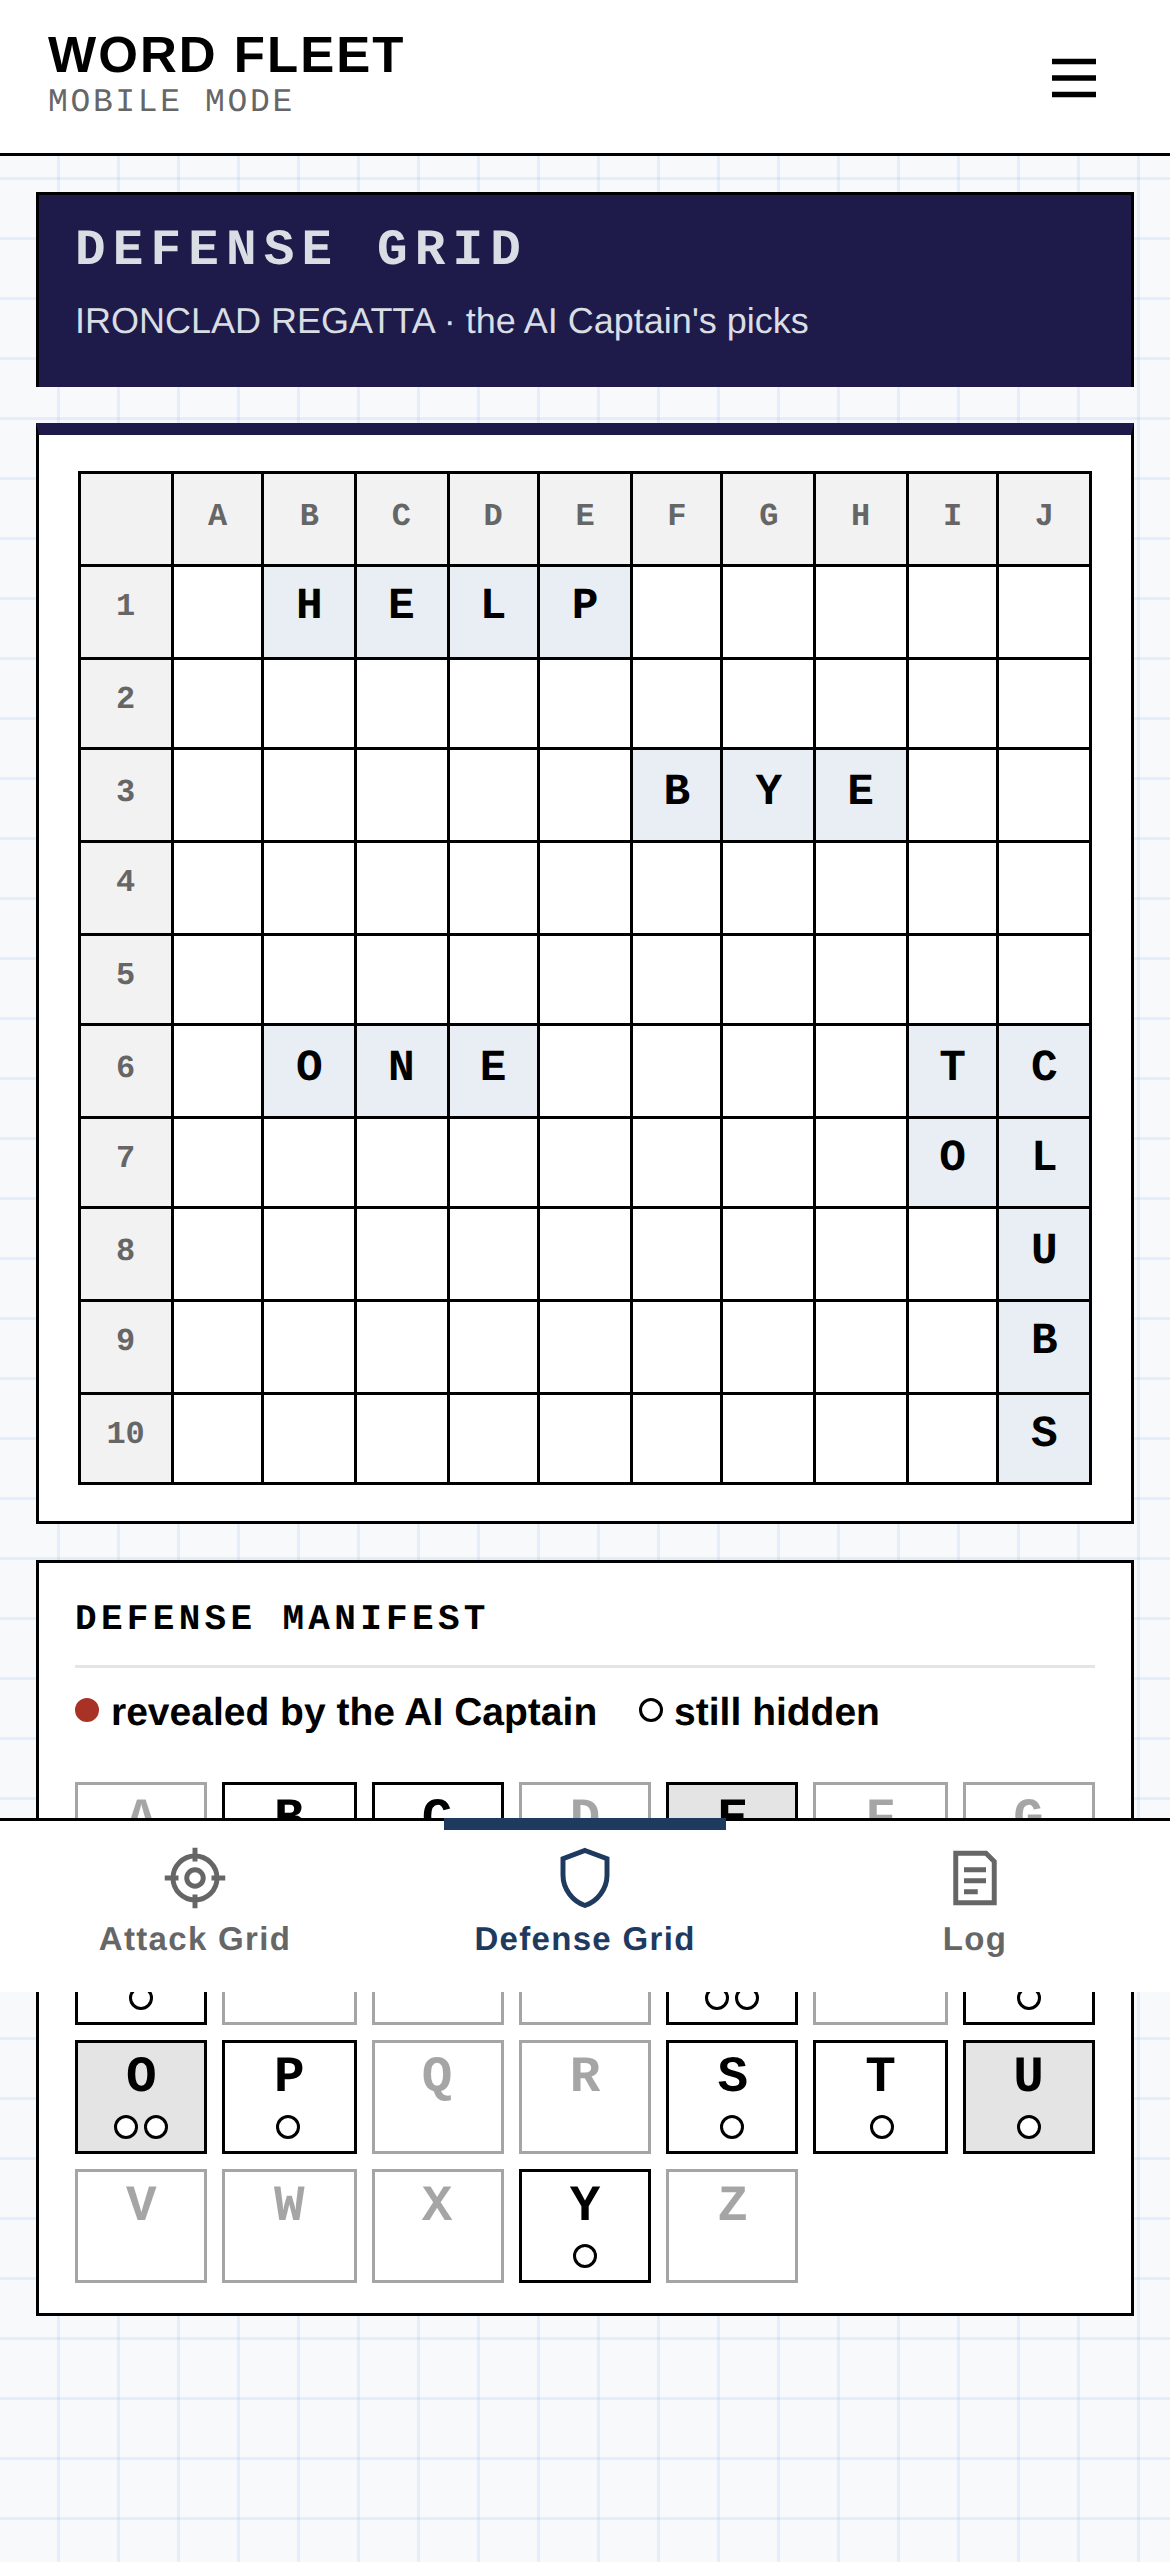
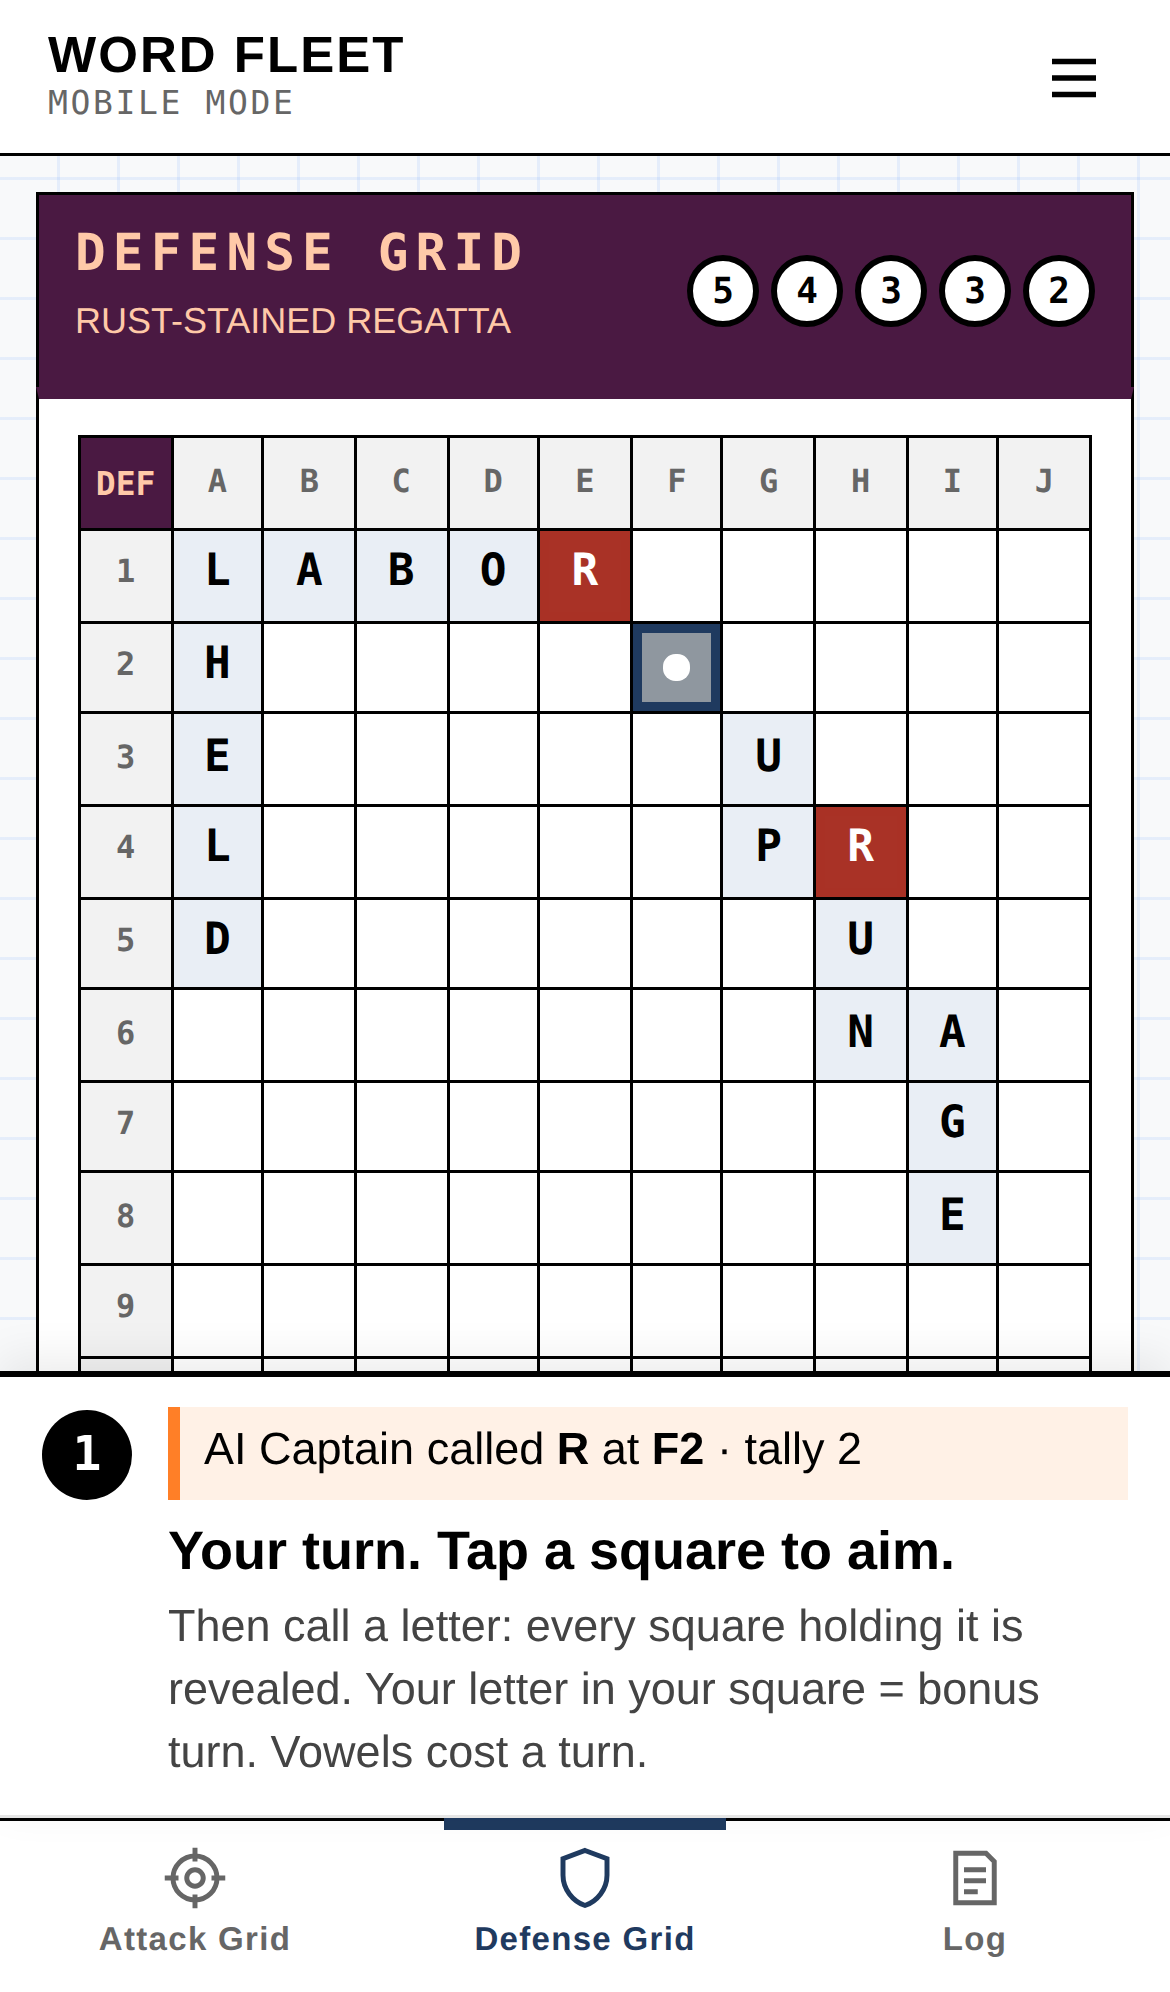
Defense Grid built like the Attack Grid in your colors: no incoming-fire box or manifest on the tab; DEF corner button opens the Defense Manifest; ship circles turn red only when sunk
Claude-Session: https://claude.ai/code/session_013sUGAAEC45a1EJCrQWVj9Q

diff --git a/mobile/app.js b/mobile/app.js
@@ -855,6 +855,11 @@
     var b = myBoard();
     var ev = S.lastFoe;
     var flashing = ev && ev.unseen && ui.tab === 'Defense';
+    // Your ship circles turn red only when the AI Captain has revealed a whole word-ship.
+    $('defBubbles').innerHTML = S.me.ships.map(function (ship, i) {
+      var all = cellsOf(ship).every(function (p) { var s = S.foeShots[key(p.r, p.c)]; return s && s.letter; });
+      return '<span class="bubble' + (all ? ' is-lost' : '') + '" title="' + SPECS[i].cls + (all ? ': sunk' : '') + '">' + SPECS[i].len + '</span>';
+    }).join('');
     paint($('gridDefense'), function (r, c) {
       var k = key(r, c);
       var cell = b[k];
@@ -863,37 +868,24 @@
       if (ui.tab === 'Defense' && (S.incoming || []).some(function (e) { return e.square === k; })) cls += ' is-aimed';
       if (flashing && ev.cells && ev.cells.indexOf(k) !== -1) cls += ' is-flash';
       return { cls: cls, text: cell ? cell.letter : '' };
-    }, false);
+    }, false, '<button type="button" class="cell is-label cell--abc cell--def" data-def="1" aria-label="Defense Manifest: your letters the AI Captain has revealed">DEF</button>');
     if (flashing) { ev.unseen = false; save(); $('defDot').hidden = true; }
+  }
 
+  // Defense Manifest: every letter in your fleet, a dot per copy, filled red once the AI Captain reveals it.
+  function defenseManifestHtml() {
     var counts = letterCounts(S.me.words), lost = {};
     Object.keys(S.foeShots).forEach(function (k) { var L = S.foeShots[k].letter; if (L) lost[L] = (lost[L] || 0) + 1; });
-    $('defenseManifest').innerHTML = LETTERS.map(function (L) {
+    return LETTERS.map(function (L) {
       var n = counts[L];
       return '<div class="mf' + (n === 0 ? ' is-dim' : '') + (isVowel(L) && n ? ' is-vowel' : '') + '"><span class="mf-l">' + L + '</span>' + pips(n, lost[L] || 0, 'is-lost') + '</div>';
     }).join('');
-
-    // The AI Captain's moves since your last turn, one line each.
-    var ic = $('incomingCard');
-    var list = S.incoming || [];
-    ic.hidden = !list.length;
-    ic.innerHTML = list.length ? '<div class="incoming-title">Incoming fire from the AI Captain</div>' + list.map(incomingHtml).join('') +
-      (S.turn === 'me' ? '<button class="btn btn--primary btn--wide" type="button" data-act="returnFire">Your Turn: Return Fire \u2192 Attack Grid</button>'
-                       : '<p class="waiting">The AI Captain goes again…</p>') : '';
   }
-
-  function incomingHtml(ev) {
-    if (ev.skip) return '<p class="notice">You called a vowel, so you lose this turn.</p>';
-    var h = '<div class="report ' + (ev.tally ? 'is-bad' : 'is-good') + '"><div class="report-q">' + coordK(ev.square) + ': "Calling ' + NATO[ev.letter] + '!"</div>' +
-      '<div class="report-a">"' + ev.letter + ' tally ' + ev.tally + '."</div></div>';
-    if (ev.cells && ev.cells.length && ev.tally) h += revealNote(ev.letter, ev.cells.slice(0, ev.tally), 'your');
-    if (ev.bonus) h += '<p class="bonus is-foe">★ ' + ev.letter + ' was at ' + coordK(ev.square) + ': the AI Captain takes a bonus turn.</p>';
-    if (ev.vowel) h += '<p class="notice">The AI Captain called a vowel, so it loses its next turn.</p>';
-    if (ev.solve) {
-      h += '<div class="report ' + (ev.solve.ok ? 'is-bad' : 'is-good') + '"><div class="report-q">"Solve: ' + ev.solve.word + '!"</div><div class="report-a">' + (ev.solve.ok ? '"Correct."' : '"Negative."') + '</div></div>' +
-        (ev.solve.ok ? '<p class="hint">Your word-ship <strong>' + ev.solve.word + '</strong> is fully exposed.</p>' : '');
-    }
-    return h;
+  function openDefenseManifest() {
+    openSheet('<h2>Defense Manifest</h2>' +
+      '<p class="hint" style="margin:2px 0 0"><span class="pip-key"><i class="pip is-lost"></i> revealed by the AI Captain</span> <span class="pip-key"><i class="pip"></i> still hidden</span></p>' +
+      '<div class="manifest">' + defenseManifestHtml() + '</div>' +
+      '<button class="btn btn--ghost btn--wide" type="button" data-act="close">Close</button>', true, 'MOBILE-DEFENSE-MANIFEST');
   }
 
   // 008-MOBILE-LOG: newest first, an anchor bullet on every entry. Your moves and the AI Captain's
@@ -1545,9 +1537,7 @@
   });
   on($('firePanel'), 'input', function (e) { if (e.target.hasAttribute('data-claim')) claimInput(e.target); });
   on($('firePanel'), 'change', function (e) { if (e.target.hasAttribute('data-claim')) claimInput(e.target); });
-  on($('tabDefense'), 'click', function (e) {
-    if (e.target.closest('[data-act="returnFire"]')) { S.incoming = []; save(); switchTab('Attack'); }
-  });
+  on($('gridDefense'), 'click', function (e) { if (e.target.closest('[data-def]')) openDefenseManifest(); });
   on($('tabbar'), 'click', function (e) {
     var b = e.target.closest('[data-tab]');
     if (!b) return;

diff --git a/mobile/index.html b/mobile/index.html
@@ -18,7 +18,7 @@
   <link rel="preconnect" href="https://fonts.gstatic.com" crossorigin>
   <link href="https://fonts.googleapis.com/css2?family=Courier+Prime:wght@400;700&family=Inter:wght@400;500;600;700&display=swap" rel="stylesheet">
   <!-- Bump ?v= on every release (and CACHE in sw.js) so a new page never runs old code. -->
-  <link rel="stylesheet" href="app.css?v=103">
+  <link rel="stylesheet" href="app.css?v=104">
 </head>
 <body>
 
@@ -159,17 +159,14 @@
 
     <!-- ============ 007-MOBILE-DEFENSE (screen name: "007-MOBILE-DEFENSE") ============ -->
     <div class="tab" id="tabDefense" data-screen="007-MOBILE-DEFENSE" hidden>
+      <!-- Built like the Attack Grid, in your fleet colors. The AI Captain's moves are reported in the coach bar;
+           DEF in the top-left corner opens the Defense Manifest (MOBILE-DEFENSE-MANIFEST). -->
       <div class="gridbanner is-defense">
-        <div><b>DEFENSE GRID</b><span><span id="defFleetName">Your fleet</span> &middot; the AI Captain's picks</span></div>
+        <div><b>DEFENSE GRID</b><span id="defFleetName">Your fleet</span></div>
+        <span class="bubbles" id="defBubbles"></span>
       </div>
-      <div class="card is-incoming" id="incomingCard" hidden></div>
       <div class="card card--flush card--defense">
         <div class="grid" id="gridDefense"></div>
-      </div>
-      <div class="card card--manifest">
-        <div class="card-title">Defense Manifest</div>
-        <p class="hint hint--tight"><span class="pip-key"><i class="pip is-lost"></i> revealed by the AI Captain</span> <span class="pip-key"><i class="pip"></i> still hidden</span></p>
-        <div class="manifest" id="defenseManifest"></div>
       </div>
     </div>
 
@@ -240,7 +237,7 @@
 <div class="toast" id="toast" hidden></div>
 <div class="bonus-banner" id="bonusBanner" role="status" aria-live="assertive" hidden></div>
 
-<script src="audio.js?v=103"></script>
-<script src="app.js?v=103"></script>
+<script src="audio.js?v=104"></script>
+<script src="app.js?v=104"></script>
 </body>
 </html>

diff --git a/mobile/app.css b/mobile/app.css
@@ -657,3 +657,7 @@ button.mf { font: inherit; color: var(--ink); width: 100%; padding: 3px 0 2px; c
   font-family: var(--mono); font-weight: 700; font-size: calc(var(--cell) * 0.3); letter-spacing: 0; }
 .cell.cell--abc:active { filter: brightness(0.9); }
 .cell.cell--abc { font-size: max(11px, calc(var(--cell) * 0.36)); }
+
+/* 007 Defense Grid, built like the Attack Grid: DEF corner button and ship circles in your colors */
+.cell.cell--def { background: var(--mine, var(--navy)); color: var(--mine-ink, #fff); }
+.bubble.is-lost { background: var(--red); border-color: var(--red); color: #fff; }

diff --git a/mobile/sw.js b/mobile/sw.js
@@ -1,11 +1,11 @@
 /* Word Fleet service worker: the whole game works offline once loaded. */
-var CACHE = 'wordfleet-v103';
+var CACHE = 'wordfleet-v104';
 var SHELL = [
   './',
   'index.html',
-  'app.css?v=103',
-  'app.js?v=103',
-  'audio.js?v=103',
+  'app.css?v=104',
+  'app.js?v=104',
+  'audio.js?v=104',
   'manifest.webmanifest',
   'icons/icon-180.png',
   'icons/icon-192.png',

diff --git a/mobile/screens/README.md b/mobile/screens/README.md
@@ -14,10 +14,11 @@ referred to by name when asking for changes. Each has a reference snapshot in th
 | **004-MOBILE-DEPLOY** | `<section id="scrDeploy" data-screen="004-MOBILE-DEPLOY">`, `SCREENS.deploy` | `004-mobile-deploy.png` | Step 4 of 4 of Prepare for Battle, same look as 001-003; header line: your flag and fleet name. Card title "Deploy Your Fleet", then the Defense Grid dressed like the in-game one ("DEFENSE GRID PREVIEW" banner with your fleet name under it, in your fleet's colors from 001: color 1 behind, color 2 for the text, color 1 along the top edge). Opens with the five word-ships already deployed at random, in green; they never leave the grid. Section "Keep this layout or rearrange it" with ⇄ SHUFFLE (new random layout); drag a ship to move it, double-tap its first letter to turn it. "LET THE BATTLE BEGIN!" (progress bar full), Back. |
 | **005-MOBILE-ATTACK** | `<div id="tabAttack" data-screen="005-MOBILE-ATTACK">` in `#scrBattle`; coach bar `#coach` | `005-mobile-attack.png`, `005-mobile-bonus-turn.png`, `005-mobile-solve.png` | Battle, Attack Grid tab: the Attack Grid under its Signal Orange banner (no manifest on the tab; see MOBILE-ATTACK-MANIFEST). The **coach bar** above the tabs always says what to do next, with a step marker and at most two buttons: ① "Your turn. Tap a square to aim." (with the AI Captain's last move above it) → ② "Call a letter for D4" → ③ '"T tally 2." Revealed at D6, C6' with SOLVE A WORD and END TURN; ★ gold for a bonus turn; "AI Captain is aiming…" on its turn. The grid tells the story: new letters flip in one by one, the aimed square keeps a marker (gold ✓ when the letter was there), the called letter pulses in the manifest. Bonus turn also plays the bell-and-fanfare and flashes "★ BONUS TURN!". Longer hints for a captain's first two calls, or with Hints on in the ☰ menu. Solve a Word (`005-MOBILE-SOLVE`) and Demand Surrender (009, ☰ menu only) are the only popups. The AI's turn no longer jumps to the Defense tab; its tab gets a red dot. |
 | **006-MOBILE-CALL-LETTER** | sheet, `data-screen="006-MOBILE-CALL-LETTER"` | `006-mobile-call-letter.png` | Opens when you tap a hidden square: "Calling for D4", tap a letter (vowels marked −1). Tap outside to cancel. |
-| **007-MOBILE-DEFENSE** | `<div id="tabDefense" data-screen="007-MOBILE-DEFENSE">` | `007-mobile-defense.png` | Battle, Defense Grid tab: banner in your fleet colors with your fleet name; incoming report, your fleet with the AI Captain's picks, the Defense Manifest. |
+| **007-MOBILE-DEFENSE** | `<div id="tabDefense" data-screen="007-MOBILE-DEFENSE">` | `007-mobile-defense.png` | Battle, Defense Grid tab, built like the Attack Grid but in your fleet colors: banner "DEFENSE GRID" with your fleet name and your five ship circles (a circle turns red only when the AI Captain has revealed that whole word-ship), then your fleet with the AI Captain's picks. No incoming-fire box and no manifest on the tab: the AI Captain's moves are reported in the coach bar, and **DEF** in the grid's top-left corner opens the Defense Manifest. |
 | **008-MOBILE-LOG** | `<div id="tabLog" data-screen="008-MOBILE-LOG">` | `008-mobile-log.png` | Battle, Log tab: small "CAPTAIN'S LOG" then your flag and fleet name, as on the Prepare screens. Below, newest on top, a plain list with an ⚓ bullet on every entry; your moves and the AI Captain's show that side's flag and fleet name, Fleet Command notices are just the text. |
 | **009-MOBILE-SURRENDER** | the Attack popup in Demand Surrender mode (open it from the ☰ menu), `#panelSheet[data-screen="009-MOBILE-SURRENDER"]` | `009-mobile-surrender.png` | Name every AI word-ship, its first square and heading; "I Demand Your Surrender!" asks once more before it counts. |
 | **010-MOBILE-GAME-OVER** | `<section id="scrOver" data-screen="010-MOBILE-GAME-OVER">`, `SCREENS.over` | `010-mobile-game-over.png` | Result (no chip in the header), stats, New Battle, and both fleets revealed, each with its flag: the AI Captain's fixed Signal Orange & Black (`FOE_SCHEME`, bright background with dark text, the reverse of every player scheme) and yours in your scheme. |
 | **MOBILE-ATTACK-MANIFEST** *(battle)* | sheet, `data-screen="MOBILE-ATTACK-MANIFEST"`; the **ABC** button tucked into the Attack Grid's top-left corner | `mobile-attack-manifest.png` | The Attack Manifest on demand: every letter, called ones with a dot per square revealed ("none" for zero). The same letters show in the letter picker when you call. Tap outside or Close. |
+| **MOBILE-DEFENSE-MANIFEST** *(battle)* | sheet, `data-screen="MOBILE-DEFENSE-MANIFEST"`; **DEF** in the Defense Grid's top-left corner | `mobile-defense-manifest.png` | Every letter in your fleet, a dot per copy, filled red once the AI Captain reveals it. Tap outside or Close. |
 | **MOBILE-MENU** *(any screen)* | sheet, `data-screen="MOBILE-MENU"` | `mobile-menu.png` | The ☰ menu: New Battle, Rules of Engagement, Home Port, By The Game Bureau, Abandon Battle, Sound Effects and Music switches. |
 | **MOBILE-RULES** *(any screen)* | sheet, `data-screen="MOBILE-RULES"` | `mobile-rules.png` | Rules of Engagement. |
